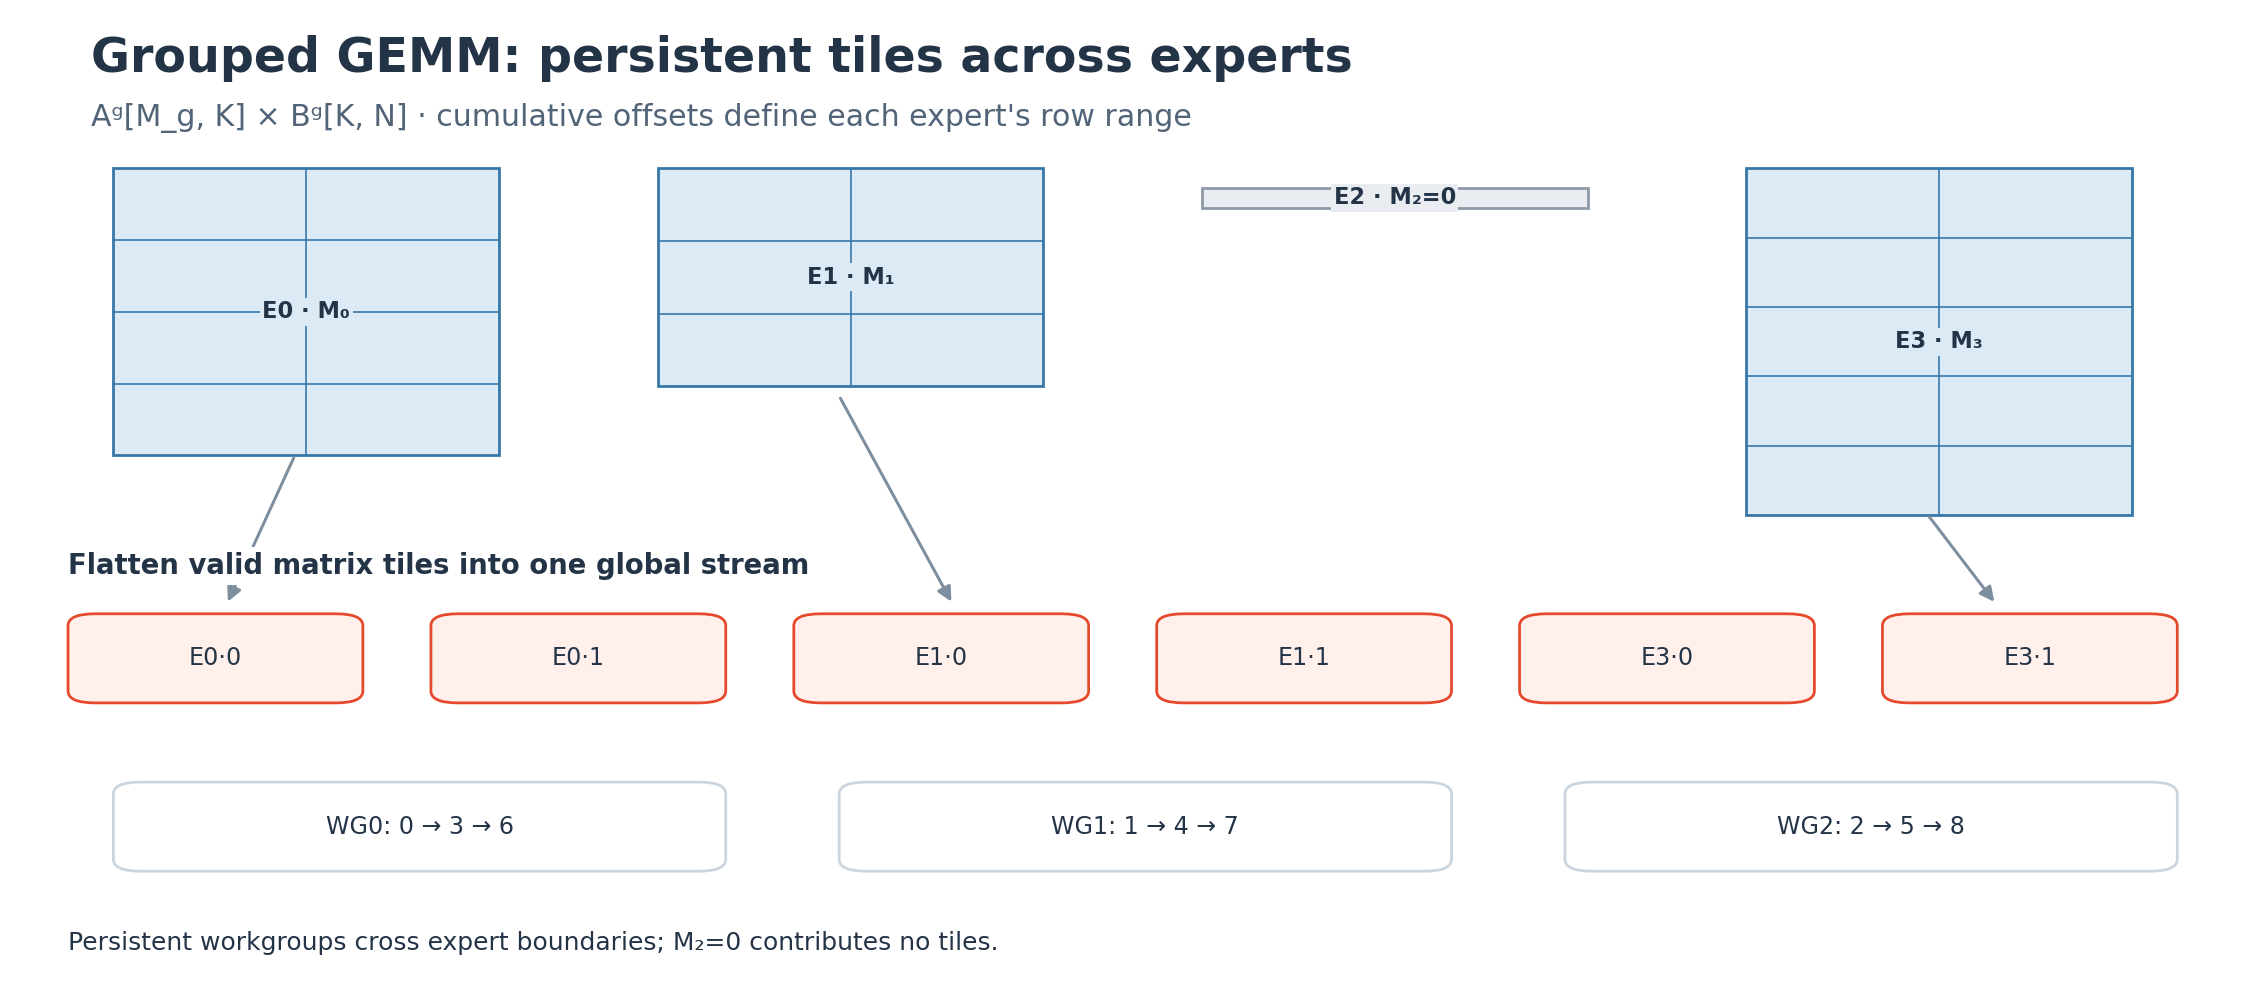
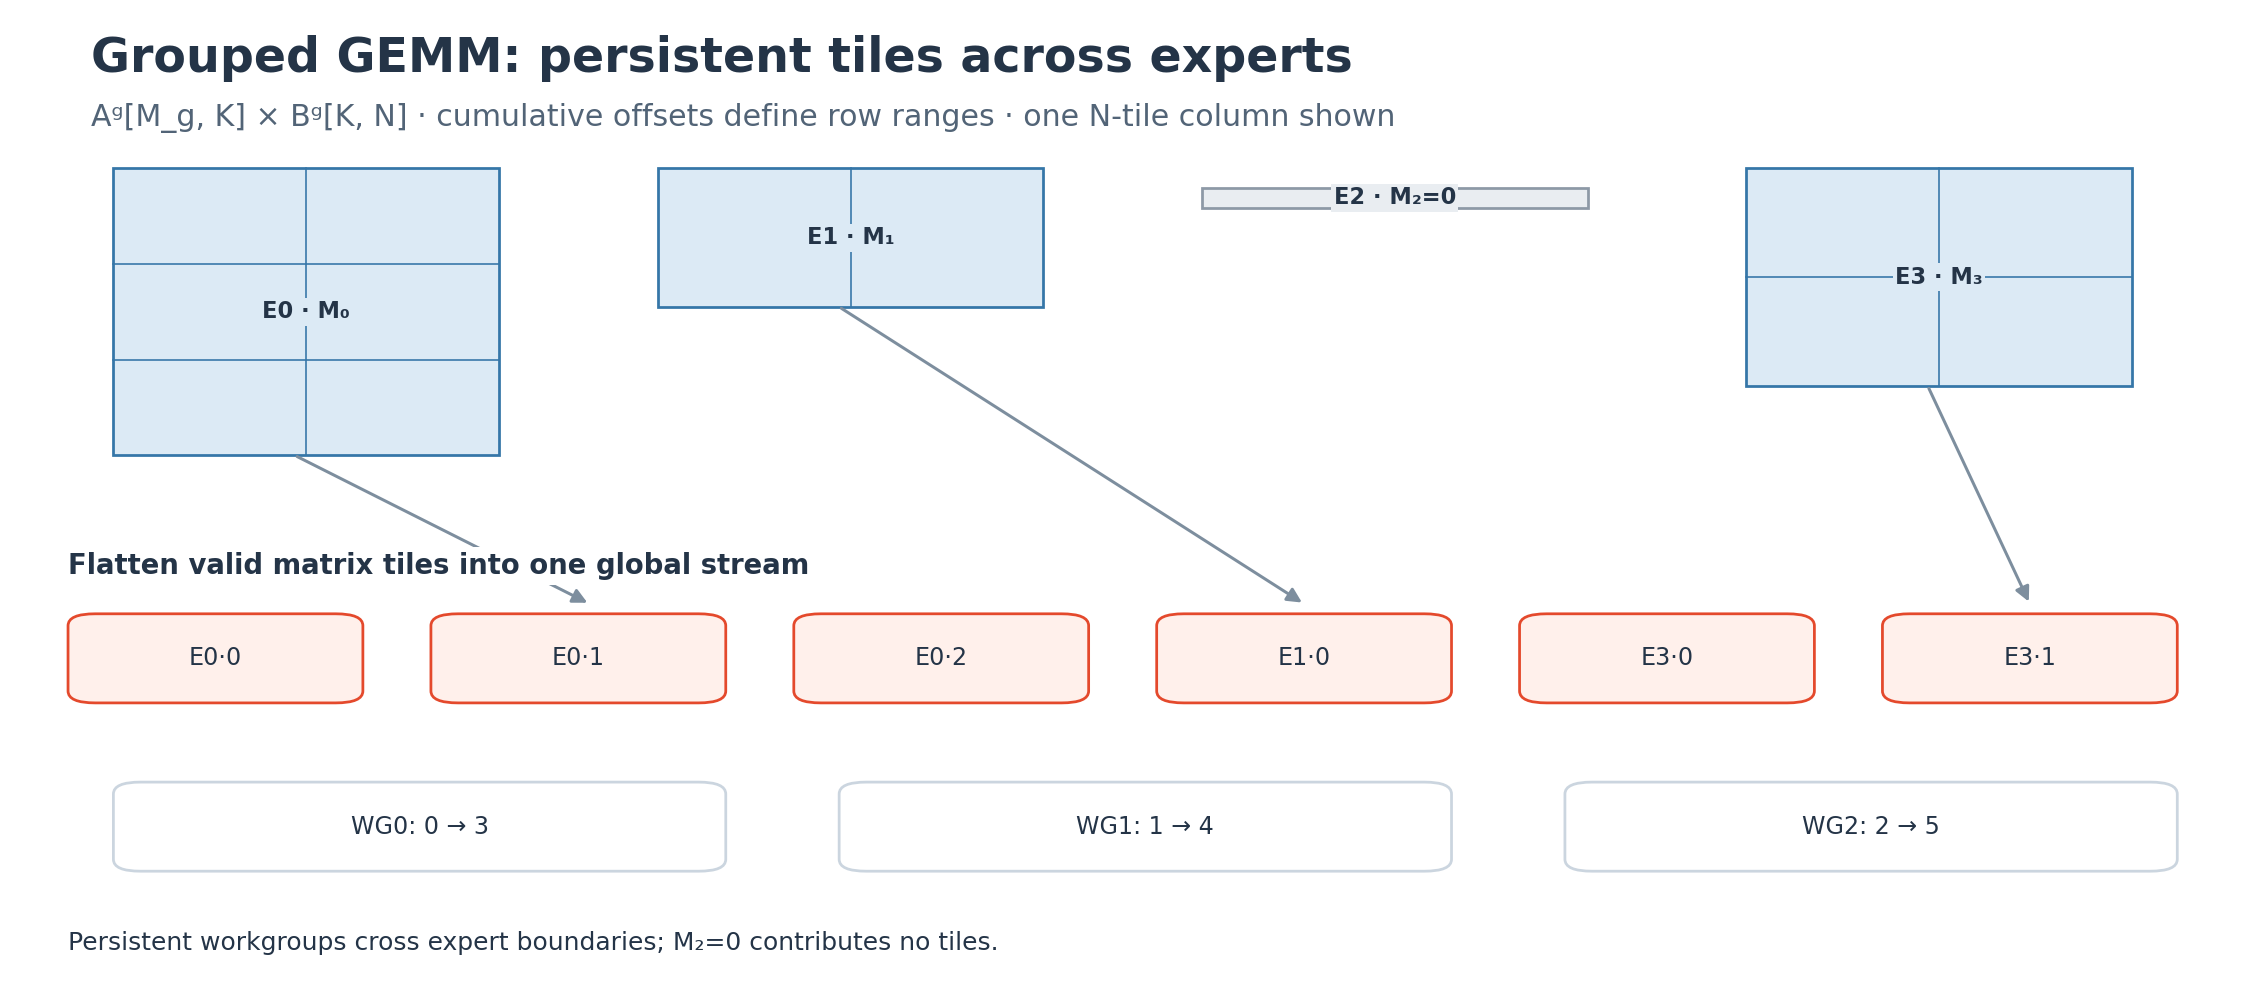
docs: correct GEMM scheduling diagrams
Model Dense HTI as M- and N-half splits that produce four C quadrants, clarify MXFP as the shared Dense/BF16 schedule plus scale staging and scaled MFMA, and make the Grouped GEMM persistent tile example internally consistent.

diff --git a/docs/_static/flydsl-pytorch-backend/generate_figures.py b/docs/_static/flydsl-pytorch-backend/generate_figures.py
@@ -249,8 +249,8 @@ def scheduling_diagrams():
         "Dense GEMM: tiled half-tile-interleaved schedule",
         "Large-shape example · A[BM, BK] × B[BK, BN] → C[BM, BN] · 8 Wave64",
     )
-    grid_rect(dense, 5, 38, 17, 38, 4, 2, "#DCEAF5")
-    grid_rect(dense, 33, 55, 28, 18, 2, 4, "#FFF0D3", edge="#D9A441")
+    grid_rect(dense, 5, 38, 17, 38, 2, 1, "#DCEAF5")
+    grid_rect(dense, 33, 55, 28, 18, 1, 2, "#FFF0D3", edge="#D9A441")
     grid_rect(dense, 70, 36, 27, 42, 2, 2, "#FDE2DA", edge=ORANGE, linewidth=1.5)
     dense.text(13.5, 80, "A tile", ha="center", fontsize=11, fontweight="bold")
     dense.text(47, 77, "B tile", ha="center", fontsize=11, fontweight="bold")
@@ -263,6 +263,10 @@ def scheduling_diagrams():
     dense.text(83.5, 31, "BN", ha="center", fontsize=9.5)
     dense.text(27, 62, "×", fontsize=18, fontweight="bold", ha="center", va="center")
     dense.text(65, 62, "→", fontsize=18, fontweight="bold", ha="center", va="center")
+    dense.text(13.5, 66.5, "A0", ha="center", va="center", fontsize=9, fontweight="bold")
+    dense.text(13.5, 47.5, "A1", ha="center", va="center", fontsize=9, fontweight="bold")
+    dense.text(40, 64, "B0", ha="center", va="center", fontsize=9, fontweight="bold")
+    dense.text(54, 64, "B1", ha="center", va="center", fontsize=9, fontweight="bold")
     for row in range(1, 2):
         yy = 57 + 21 * row / 2
         dense.plot([70, 83.5], [yy, yy], color=PURPLE, linewidth=0.7)
@@ -291,27 +295,33 @@ def scheduling_diagrams():
     # MXFP: packed operands and block scales are staged together for scaled MFMA.
     fig, mxfp = canvas(
         "MXFP scaled GEMM: operands and block scales move together",
-        "MXFP8 / MXFP4 values · E8M0 scale per 32 K elements · CDNA4 scaled MFMA",
+        "Shared Dense/BF16 HTI schedule · E8M0 scale per 32 K elements · CDNA4 scaled MFMA",
     )
-    grid_rect(mxfp, 3, 64, 14, 20, 4, 2, "#DCEAF5")
-    grid_rect(mxfp, 3, 38, 24, 14, 2, 4, "#DCEAF5")
+    grid_rect(mxfp, 3, 64, 14, 20, 2, 1, "#DCEAF5")
+    grid_rect(mxfp, 3, 38, 24, 14, 1, 2, "#DCEAF5")
     grid_rect(mxfp, 22, 64, 18, 7, 1, 4, "#E9E2F4", edge=PURPLE)
     grid_rect(mxfp, 32, 38, 18, 7, 1, 4, "#E9E2F4", edge=PURPLE)
     mxfp.text(10, 86, "Packed A", ha="center", fontsize=10.5, fontweight="bold")
     mxfp.text(15, 54, "Packed B", ha="center", fontsize=10.5, fontweight="bold")
+    mxfp.text(10, 77, "A0", ha="center", va="center", fontsize=8.5, fontweight="bold")
+    mxfp.text(10, 69, "A1", ha="center", va="center", fontsize=8.5, fontweight="bold")
+    mxfp.text(9, 45, "B0", ha="center", va="center", fontsize=8.5, fontweight="bold")
+    mxfp.text(21, 45, "B1", ha="center", va="center", fontsize=8.5, fontweight="bold")
     mxfp.text(31, 60, "S_A [BM, BK/32]", ha="center", fontsize=9)
     mxfp.text(41, 34, "S_B [BN, BK/32]", ha="center", fontsize=9)
     box(mxfp, 55, 48, 16, 32, "Staged LDS\nA / B\n+ scale chunk", fill="#FFF7E8", edge="#D9A441", bold=True)
     box(mxfp, 76, 55, 11, 18, "Scaled\nMFMA", fill="#FFF0EB", edge=ORANGE, bold=True)
-    grid_rect(mxfp, 91, 47, 8, 34, 2, 2, "#FDE2DA", edge=ORANGE, linewidth=1.4)
-    mxfp.text(95, 84, "C quadrant", ha="center", fontsize=10.5, fontweight="bold")
+    grid_rect(mxfp, 89, 48, 10, 32, 2, 2, "#FDE2DA", edge=ORANGE, linewidth=1.4)
+    mxfp.text(94, 83, "HTI C tile", ha="center", fontsize=10.5, fontweight="bold")
+    for x, y, label in [(91.5, 72, "C00"), (96.5, 72, "C01"), (91.5, 56, "C10"), (96.5, 56, "C11")]:
+        mxfp.text(x, y, label, ha="center", va="center", fontsize=7.5, fontweight="bold")
     for start, end in [
         ((17, 76), (55, 73)),
         ((40, 67.5), (55, 67)),
         ((27, 47), (55, 58)),
         ((50, 41.5), (55, 54)),
         ((71, 64), (76, 64)),
-        ((87, 64), (91, 64)),
+        ((87, 64), (89, 64)),
     ]:
         arrow(mxfp, start, end)
     box(mxfp, 12, 14, 24, 11, "Scale chunk t", fill="#E9E2F4", edge=PURPLE)
@@ -322,7 +332,7 @@ def scheduling_diagrams():
     mxfp.text(
         3,
         4,
-        "HTI derives chunk size from tile/workgroup geometry and reuses staged buffers.",
+        "Shared with Dense/BF16: C00–C11, wave layout, and K-pair prefetch · MXFP adds scale chunks.",
         fontsize=10,
     )
     save(fig, "flydsl-mxfp-gemm-scheduling")
@@ -330,13 +340,13 @@ def scheduling_diagrams():
     # Grouped GEMM: varying expert matrices are flattened into one persistent stream.
     fig, grouped = canvas(
         "Grouped GEMM: persistent tiles across experts",
-        "Aᵍ[M_g, K] × Bᵍ[K, N] · cumulative offsets define each expert's row range",
+        "Aᵍ[M_g, K] × Bᵍ[K, N] · cumulative offsets define row ranges · one N-tile column shown",
     )
     expert_specs = [
-        (5, 54, 17, 29, 4, "E0 · M₀"),
-        (29, 61, 17, 22, 3, "E1 · M₁"),
+        (5, 54, 17, 29, 3, "E0 · M₀"),
+        (29, 69, 17, 14, 1, "E1 · M₁"),
         (53, 79, 17, 2, 1, "E2 · M₂=0"),
-        (77, 48, 17, 35, 5, "E3 · M₃"),
+        (77, 61, 17, 22, 2, "E3 · M₃"),
     ]
     for x, y, width, height, rows_count, label in expert_specs:
         fill, edge = ("#E9EDF1", GRAY) if "M₂" in label else ("#DCEAF5", BLUE)
@@ -360,14 +370,14 @@ def scheduling_diagrams():
         bbox={"facecolor": "white", "edgecolor": "none", "pad": 2},
         zorder=4,
     )
-    for x, label in [(3, "E0·0"), (19, "E0·1"), (35, "E1·0"), (51, "E1·1"), (67, "E3·0"), (83, "E3·1")]:
+    for x, label in [(3, "E0·0"), (19, "E0·1"), (35, "E0·2"), (51, "E1·0"), (67, "E3·0"), (83, "E3·1")]:
         box(grouped, x, 29, 13, 9, label, fill="#FFF0EB", edge=ORANGE, size=9.5)
-    arrow(grouped, (13, 54), (10, 39))
-    arrow(grouped, (37, 60), (42, 39))
-    arrow(grouped, (85, 48), (88, 39))
-    box(grouped, 5, 12, 27, 9, "WG0: 0 → 3 → 6", fill="white", edge="#CBD5DF", size=9.5)
-    box(grouped, 37, 12, 27, 9, "WG1: 1 → 4 → 7", fill="white", edge="#CBD5DF", size=9.5)
-    box(grouped, 69, 12, 27, 9, "WG2: 2 → 5 → 8", fill="white", edge="#CBD5DF", size=9.5)
+    arrow(grouped, (13, 54), (26, 39))
+    arrow(grouped, (37, 69), (57.5, 39))
+    arrow(grouped, (85, 61), (89.5, 39))
+    box(grouped, 5, 12, 27, 9, "WG0: 0 → 3", fill="white", edge="#CBD5DF", size=9.5)
+    box(grouped, 37, 12, 27, 9, "WG1: 1 → 4", fill="white", edge="#CBD5DF", size=9.5)
+    box(grouped, 69, 12, 27, 9, "WG2: 2 → 5", fill="white", edge="#CBD5DF", size=9.5)
     grouped.text(3, 4, "Persistent workgroups cross expert boundaries; M₂=0 contributes no tiles.", fontsize=10)
     save(fig, "flydsl-grouped-gemm-scheduling")
 

diff --git a/docs/pytorch_flydsl_backend_blog.md b/docs/pytorch_flydsl_backend_blog.md
@@ -111,9 +111,10 @@ autotune among narrower full-tile and HTI configurations.
 
 ![Dense GEMM tile mapping from A and B tiles to four half-tile-interleaved C quadrants](_static/flydsl-pytorch-backend/flydsl-dense-gemm-scheduling.png)
 
-*Figure 2. Dense GEMM tiled scheduling. A `BM × BK` tile and a `BK × BN` tile
-produce a `BM × BN` output tile. The large-shape HTI example keeps four output
-quadrants resident while MFMA consumes one K-tile pair and loads the next.*
+*Figure 2. Dense GEMM tiled scheduling. HTI splits A along M into `A0/A1` and B
+along N into `B0/B1`, producing four C quadrants—not a 4 × 4 C grid. The same
+eight waves form a 2 × 4 mapping inside each quadrant and are reused across
+`C00`–`C11` while the next K-tile pair is prefetched.*
 
 Across 15 BF16 NT shapes, FlyDSL delivers a **1.10x geometric-mean speedup over
 the faster ATen/Triton baseline at each shape**. Gains are strongest in smaller
@@ -143,17 +144,19 @@ small block of elements. They reduce operand storage while allowing matrix
 multiplication to accumulate in FP32. FlyDSL's MXFP8 and MXFP4 support makes
 these kernels available to quantized workloads through `torch.compile`.
 
-The scaled-GEMM kernel feeds packed MXFP8/MXFP4 operands and E8M0 block scales
-directly into CDNA4 scaled MFMA instructions, avoiding full-precision operand
-materialization. Scales are staged through LDS alongside A and B; the HTI path
-derives its scale-chunk size from the tile and workgroup geometry and cycles
-those chunks through staged buffers.
+MXFP is a specialization of the same gfx950 GEMM scheduler rather than an
+independent schedule: it reuses the Dense/BF16 tile configurations, wave layout,
+full-tile/HTI choice, four resident C quadrants, and K-pair prefetch pipeline.
+Its additions are packed MXFP8/MXFP4 operand layouts, E8M0 scales staged through
+LDS with A/B, and CDNA4 scaled MFMA instructions. For HTI, the scale-chunk length
+is derived from the tile and workgroup geometry and cycled through the staged
+buffers.
 
 ![MXFP scaled GEMM stages packed operands and E8M0 block scales together before scaled MFMA](_static/flydsl-pytorch-backend/flydsl-mxfp-gemm-scheduling.png)
 
-*Figure 4. MXFP scaled-GEMM scheduling. Packed A/B tiles and their E8M0 block
-scales are staged together in LDS and consumed by scaled MFMA. HTI cycles
-scale chunks through the same staged pipeline.*
+*Figure 4. MXFP scaled-GEMM scheduling. The C-quadrant and K-pair schedule is
+shared with Dense/BF16. MXFP adds packed A/B values, E8M0 scale chunks staged in
+the same LDS pipeline, and scaled MFMA.*
 
 In the published September 20 measurements on MI355X, the 17-shape NT suite
 shows a **1.58x geometric-mean speedup for MXFP8 over ATen** and a **1.68x
@@ -187,9 +190,10 @@ available to autotuning.
 
 ![Grouped GEMM flattens tiled expert matrices into one persistent global work stream](_static/flydsl-pytorch-backend/flydsl-grouped-gemm-scheduling.png)
 
-*Figure 6. Grouped-GEMM scheduling. Per-expert matrices with different `M_g`
-produce one global tile stream. Persistent workgroups stride across that stream,
-cross expert boundaries, and naturally skip experts with zero rows.*
+*Figure 6. Grouped-GEMM scheduling. One N-tile column is shown: experts contribute
+`ceil(M_g / BM)` tiles to a cumulative stream, while a zero-row expert
+contributes none. Persistent workgroups start at `blockIdx.x` and advance by the
+grid size, so they can cross expert boundaries without launching per expert.*
 
 The 24 reported cases are divided by the workload dimension being tested. In a
 uniform shape `G × M × K × N`, `G` is the number of experts, `M` is the token

diff --git a/docs/_static/flydsl-pytorch-backend/README.md b/docs/_static/flydsl-pytorch-backend/README.md
@@ -10,9 +10,9 @@ and rendering material. Regenerating the figures does not run a benchmark.
 The September 24 revision assumes a PyTorch build containing
 [MXFP scaled GEMM support, PR #196719](https://github.com/pytorch/pytorch/pull/196719).
 The article treats that PR as landed. Support and usage were checked against
-commit `e297267ba4a23ee9e14d35d12145d7deb4d8fcd1`; the MXFP operator table uses
-the final numbers published in the benchmark comment last edited on
-September 20.
+PyTorch `main` at commit `2e9b4aff8d49b22bbebf288ccbf63983c51e45f0`;
+the MXFP operator table uses the final numbers published in the benchmark
+comment last edited on September 20.
 
 The MXFP implementation and tests cover NN, NT, TN, and TT layouts, with
 layout-dependent alignment checks. Both formats require logical `K` to be a
